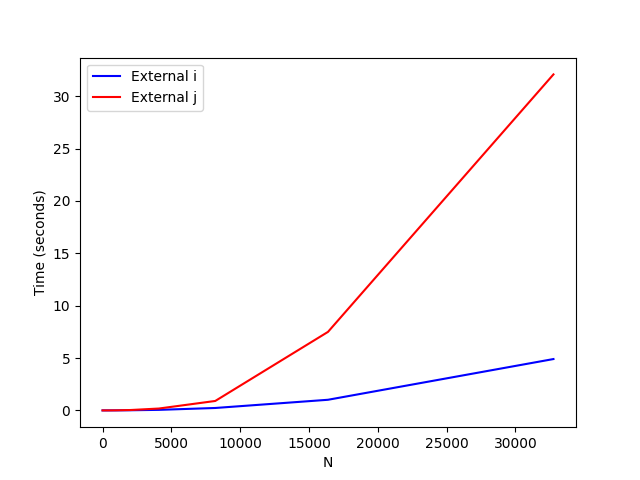
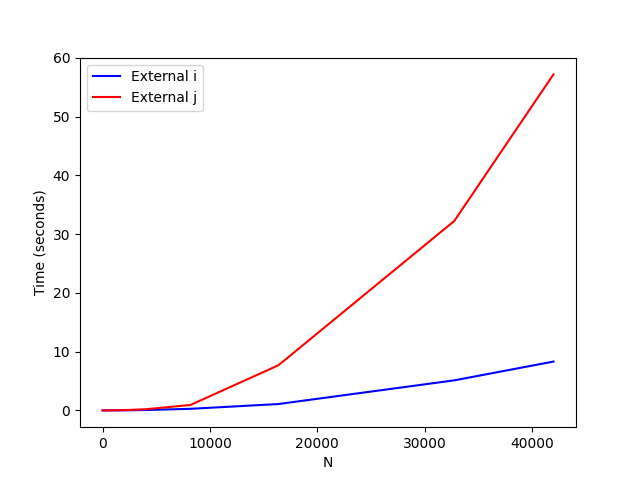
new version. new files, new data and its done!

diff --git a/exercise1/runner.py b/exercise1/runner.py
@@ -20,12 +20,14 @@ def process(language: str, compiler_call: str) -> str:
 
     with open(data_file_path, "a") as data_file:
         size = 1
-        ret_code = 0
-        while ret_code == 0:
+        while size < 42000:
             ret_code = subprocess.call(
                 [f"./{language}_resolution/resolution", str(size)], stdout=data_file
             )
             size = size * 2
+        subprocess.call(
+            [f"./{language}_resolution/resolution", str(42000)], stdout=data_file
+        )
     return data_file_path
 
 
